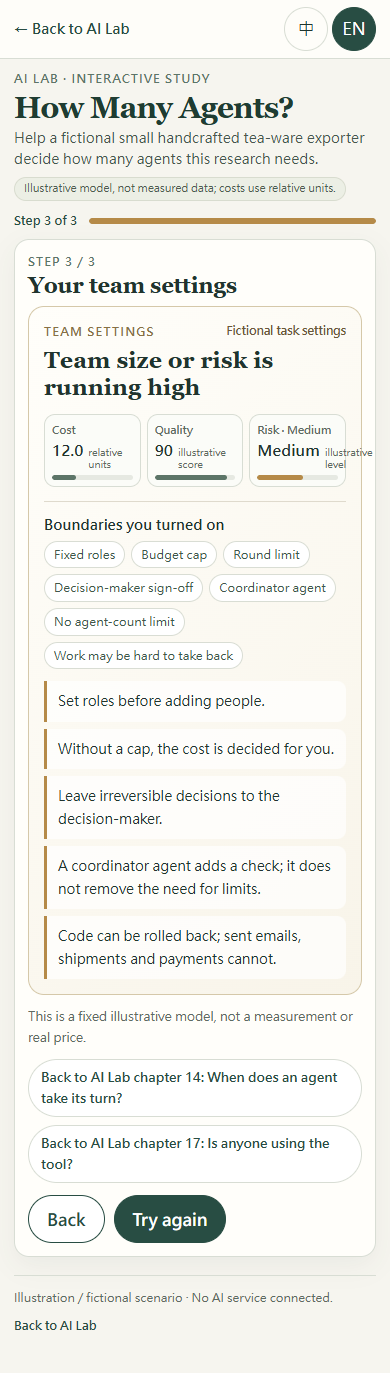
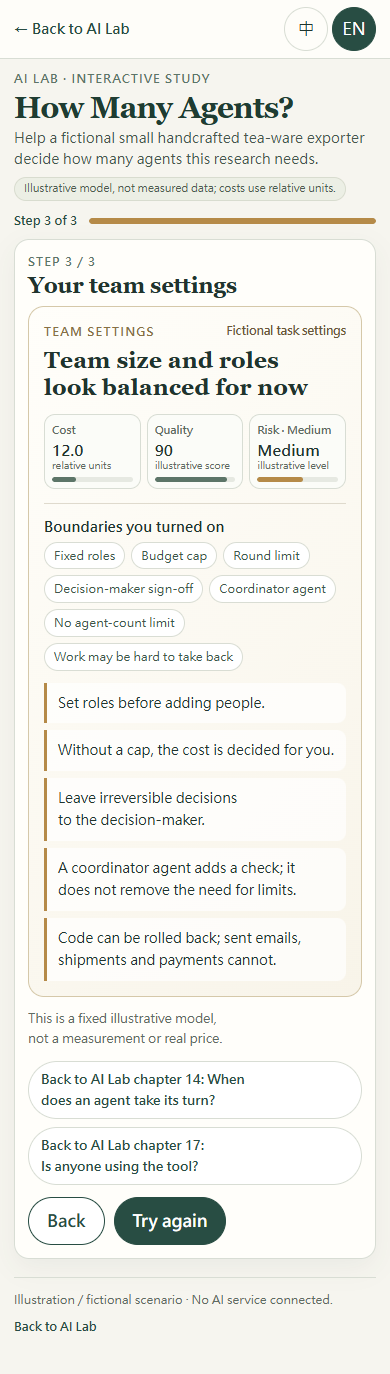
fix: refine how-many-agents result and mobile copy

diff --git a/tests/how-many-agents.spec.js b/tests/how-many-agents.spec.js
@@ -7,6 +7,59 @@ const PAGE = "/prototype/how-many-agents/";
 const screenshots = join(process.cwd(), "docs", "qa", "how-many-agents");
 mkdirSync(screenshots, { recursive: true });
 
+async function expectNoOrphanLines(page, lang) {
+  const findings = await page.evaluate((language) => {
+    const panel = document.querySelector("#step-one:not([hidden]), #step-two:not([hidden]), #step-three:not([hidden])");
+    const elements = panel.querySelectorAll("h2, h3, h4, p, legend, button, a, li, output, small, strong, span");
+    const issues = [];
+    for (const element of elements) {
+      const style = getComputedStyle(element);
+      if (style.display === "none" || style.visibility === "hidden" || element.children.length || !element.textContent.trim()) continue;
+      const wholeText = document.createRange();
+      wholeText.selectNodeContents(element);
+      const lineGroups = [];
+      for (const rect of [...wholeText.getClientRects()].filter(item => item.height)) {
+        const group = lineGroups.find(candidate => rect.top < candidate.bottom && rect.bottom > candidate.top);
+        if (group) { group.top = Math.min(group.top, rect.top); group.bottom = Math.max(group.bottom, rect.bottom); }
+        else lineGroups.push({ top: rect.top, bottom: rect.bottom, text: "" });
+      }
+      if (lineGroups.length < 2) continue;
+      const walker = document.createTreeWalker(element, NodeFilter.SHOW_TEXT);
+      let node;
+      while ((node = walker.nextNode())) {
+        let offset = 0;
+        for (const character of Array.from(node.nodeValue)) {
+          const range = document.createRange();
+          range.setStart(node, offset);
+          range.setEnd(node, offset + character.length);
+          offset += character.length;
+          const rect = range.getBoundingClientRect();
+          if (!rect.height) continue;
+          let lineGroup = lineGroups[0];
+          let nearest = Infinity;
+          for (const candidate of lineGroups) {
+            const overlap = Math.max(0, Math.min(rect.bottom, candidate.bottom) - Math.max(rect.top, candidate.top));
+            const distance = overlap ? -overlap : Math.abs(rect.top - candidate.top);
+            if (distance < nearest) { nearest = distance; lineGroup = candidate; }
+          }
+          lineGroup.text += character;
+        }
+      }
+      for (const lineGroup of lineGroups) {
+        const rawLine = lineGroup.text;
+        const visibleLine = rawLine.trim();
+        if (!visibleLine) continue;
+        const units = language === "zh"
+          ? Array.from(visibleLine.replace(/\s/g, "")).length
+          : (visibleLine.match(/[A-Za-z]+(?:[’'][A-Za-z]+)*/g) || []).length;
+        if (units === 1) issues.push({ selector: element.id || element.className || element.tagName, text: element.innerText.trim(), line: visibleLine });
+      }
+    }
+    return issues;
+  }, lang);
+  expect(findings, `${lang} ${JSON.stringify(findings)}`).toEqual([]);
+}
+
 test("the illustrative model preserves its intended curves and guardrail effects", () => {
   const one = calculateModel({ agents: 1 });
   const four = calculateModel({ agents: 4 });
@@ -27,6 +80,8 @@ test("the illustrative model preserves its intended curves and guardrail effects
   expect(calculateModel({ agents: 12, budget: true }).cost).toBeLessThanOrEqual(MODEL.budgetCostLimit);
   expect(calculateModel({ agents: 1, noLimit: true }).effectiveAgents).toBe(1 + MODEL.automaticExtraAgents);
   expect(calculateModel({ agents: 12, noLimit: true }).effectiveAgents).toBe(MODEL.maxAgents);
+  expect(calculateModel({ agents: 12, roles: true, budget: true, cap: true, signoff: true, coordinator: true }).summary).toBe("justRight");
+  expect(calculateModel({ agents: 12, noLimit: true }).summary).toBe("tooMany");
 });
 
 for (const lang of ["zh", "en"]) {
@@ -82,6 +137,7 @@ for (const lang of ["zh", "en"]) {
     await expect(page.locator("#chapter-14-link")).toHaveAttribute("href", `/ai-lab/?lang=${lang}#c14`);
     await expect(page.locator("#chapter-17-link")).toHaveAttribute("href", `/ai-lab/?lang=${lang}#c17`);
     await page.screenshot({ path: join(screenshots, `${lang}-390-step3-result.png`), fullPage: true });
+    if (lang === "zh") await page.screenshot({ path: join(screenshots, "zh-390-step3-all-guardrails.png"), fullPage: true });
     expect(await page.evaluate(() => document.documentElement.scrollWidth - document.documentElement.clientWidth)).toBe(0);
     expect(await page.evaluate(() => Object.keys(localStorage).length)).toBe(0);
     const disallowed = ["中間層", "A2A", "CDD", "ROI", "轉換率", "成交率", "老闆", "董事長", "DeepSeek", "GrokBot", "Codex", "OpenAI", "Anthropic", "Claude", "Gemini", "ChatGPT"];
@@ -89,6 +145,32 @@ for (const lang of ["zh", "en"]) {
     for (const phrase of disallowed) expect(visibleCopy).not.toContain(phrase);
   });
 }
+
+test("no visible step contains a one-character or one-word orphan at supported review widths", async ({ page }) => {
+  for (const lang of ["zh", "en"]) {
+    for (const width of [390, 414, 768, 1440]) {
+      await page.setViewportSize({ width, height: width < 500 ? 844 : 1000 });
+      await page.goto(`${PAGE}?lang=${lang}`);
+      await expectNoOrphanLines(page, lang);
+
+      await page.locator("#agent-count").evaluate((input) => { input.value = "12"; input.dispatchEvent(new Event("input", { bubbles: true })); });
+      await page.locator("#no-limit").check();
+      await page.locator('input[value="irreversible"]').check();
+      await expectNoOrphanLines(page, lang);
+      await page.locator("#no-limit").uncheck();
+      await page.locator("#next-one").click();
+      for (const id of ["roles", "budget", "cap", "signoff", "coordinator"]) await page.locator(`#${id}`).check();
+      await expectNoOrphanLines(page, lang);
+      await page.locator("#next-two").click();
+      await expectNoOrphanLines(page, lang);
+
+      if (lang === "zh" && width === 390) {
+        await expect(page.locator("#result-card")).toHaveAttribute("data-summary", "justRight");
+        await page.screenshot({ path: join(screenshots, "zh-390-step3-all-guardrails.png"), fullPage: true });
+      }
+    }
+  }
+});
 
 for (const lang of ["zh", "en"]) {
   test(`the ${lang} tool remains within 1440px and controls are comfortably tappable`, async ({ page }) => {

diff --git a/public/prototype/how-many-agents/app.js b/public/prototype/how-many-agents/app.js
@@ -4,7 +4,7 @@ const COPY = {
   zh: {
     lang: "zh-Hant", title: "要開幾個 agent？", eyebrow: "AI LAB · INTERACTIVE STUDY", dek: "幫一家做手工茶具外銷的虛構小公司決定：這份調查，要開幾個 agent？", boundary: "示意模型，非實測數據；成本用相對單位。",
     steps: ["你想開幾個 agent？", "加上這四道設限", "你的團隊設定"],
-    stepNotes: ["同一件事，人數增加會帶來分工，也會增加協調。", "比較設限前後；另一個總管 agent 也有自己的成本與盲點。", "這是一張示意設定卡，沒有標準答案；帶走你想設的界線。"],
+    stepNotes: ["同一件事，人數增加會帶來分工，也會增加協調。", "比較設限前後；總管 agent 也有自己的成本與盲點。", "這是一張示意設定卡，沒有標準答案；帶走你想設的界線。"],
     scenarioLabel: "虛構任務", scenario: "兩週內，比較三個海外市場的經銷商，交一份建議。", sliderLabel: "想安排幾個 agent？", sliderHelp: "滑動或用鍵盤方向鍵調整。數量只是示意模型輸入。",
     meter: { cost: "成本", quality: "品質", risk: "風險", relative: "相對單位", score: "示意分", levels: { low: "低", medium: "中", high: "高" } },
     noLimit: "我沒有設上限", noLimitHelp: "若沒有預算上限，示意系統會自行增加 agent。", auto: (n) => `系統自己決定開了 ${n} 個 agent。多出的人手也會帶來協調成本。`,
@@ -32,7 +32,7 @@ const COPY = {
     scenarioLabel: "Fictional task", scenario: "Compare distributors in three overseas markets and deliver a recommendation within two weeks.", sliderLabel: "How many agents would you assign?", sliderHelp: "Drag the slider or use the arrow keys. The count is an illustrative model input.",
     meter: { cost: "Cost", quality: "Quality", risk: "Risk", relative: "relative units", score: "illustrative score", levels: { low: "Low", medium: "Medium", high: "High" } },
     noLimit: "I set no limit", noLimitHelp: "Without a budget cap, the illustrative system may add agents on its own.", auto: (n) => `The system decided to open ${n} agents. Extra people also add coordination cost.`,
-    reversibleTitle: "Can this work be undone?", reversible: "Reversible: code, drafts and internal lists can return to an earlier version.", irreversible: "Hard to take back: a customer email, shipment, payment or quote once sent.", irreversibleNote: "A rollback cannot make every mistake disappear.",
+    reversibleTitle: "Can this work be undone?", reversible: "Code, drafts and internal lists can be rolled back.", irreversible: "Hard to take back: a customer email, shipment, payment or quote once sent.", irreversibleNote: "A rollback cannot make every mistake disappear.",
     feedback: { tooFew: "With a small team, only so much work can happen in parallel.", rising: "More people can split tasks; define the roles first to avoid duplication.", repeat: "With more people and no clear roles, tasks may repeat or conflict.", uncontrolled: "Without a limit, the system adds people; coordination and cost rise too." },
     next: "Set the guardrails", back: "Back", finish: "See the settings card", restart: "Try again",
     guardrails: {

diff --git a/public/prototype/how-many-agents/styles.css b/public/prototype/how-many-agents/styles.css
@@ -90,6 +90,7 @@ h1 { margin: 3px 0 3px; color: #1f3c32; font-family: Georgia, "Noto Serif TC", s
 .chapter-links a { min-height: 44px; display: inline-flex; align-items: center; padding: 7px 12px; border: 1px solid var(--line); border-radius: 999px; background: white; text-decoration: none; font-size: .82rem; font-weight: 700; }
 .page-foot { display: flex; flex-wrap: wrap; justify-content: space-between; gap: 8px 16px; margin-top: 18px; padding-top: 12px; border-top: 1px solid var(--line); color: var(--muted); font-size: .76rem; }
 .page-foot a { color: var(--pine); font-weight: 700; text-decoration: none; }
+.step-heading h2, .step-note, .scenario-card p, .agent-slider label, .control-help, .meter-label, .plain-feedback, .switch-copy strong, .switch-copy small, .automatic-note, .reversibility legend, .choice-card span, .reversibility-note, .comparison-card h3, .coordinator-note, .guardrail-effects li, .result-card > h3, .result-settings h4, .result-settings li, .takeaway, .result-boundary, .chapter-links a, .actions button { text-wrap: balance; }
 @media (max-width: 600px) {
   .topbar { min-height: 52px; padding-inline: 14px; }
   main { width: calc(100% - 28px); padding-top: 11px; }
@@ -107,7 +108,8 @@ h1 { margin: 3px 0 3px; color: #1f3c32; font-family: Georgia, "Noto Serif TC", s
   .meter { padding: 7px 7px 6px; }
   .meter-label { font-size: .68rem; }
   .meter-value { font-size: .96rem; }
-  .meter-unit { font-size: .62rem; }
+  .meter-unit { font-size: .62rem; white-space: nowrap; }
+  .meter-value-row { display: grid; grid-template-columns: minmax(0, 1fr); justify-items: start; gap: 0; }
   .plain-feedback { font-size: .79rem; }
   .guardrails { grid-template-columns: 1fr; gap: 0; }
   .guardrails .switch-card { min-height: 58px; }

diff --git a/public/prototype/how-many-agents/model.js b/public/prototype/how-many-agents/model.js
@@ -52,7 +52,7 @@ export function calculateModel({ agents = 1, roles = false, budget = false, cap 
       : riskScore <= MODEL.mediumRiskMax ? "medium" : "high";
 
   const summary = effectiveAgents < 3 ? "tooFew"
-    : riskLevel === "high" || effectiveAgents > 7 || (noLimit && !budget) ? "tooMany"
+    : riskLevel === "high" || (noLimit && !budget) || (effectiveAgents > 7 && (!roles || !cap)) ? "tooMany"
       : "justRight";
   return {
     selectedAgents: n,
